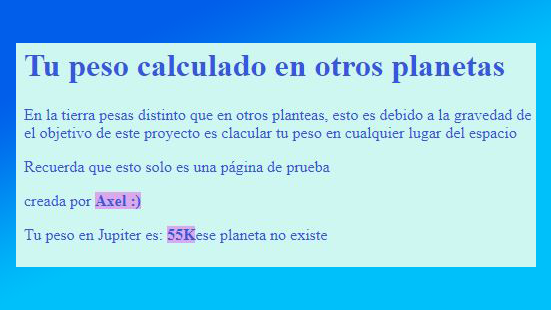
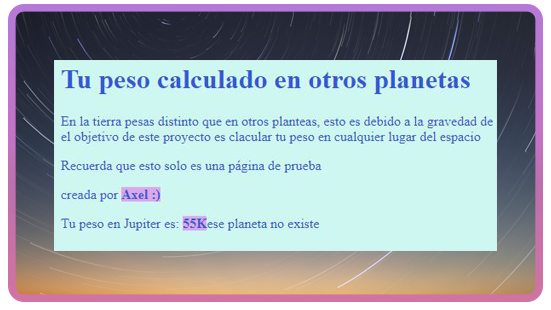
responsive terminado

diff --git a/Styles/inicio.css b/Styles/inicio.css
@@ -1,4 +1,3 @@
-
 * {
     margin: 0;
     padding: 0;
@@ -31,6 +30,7 @@ h1{
     justify-content: space-between;
     align-items: center;
     position: absolute;
+    top: 0;
     z-index: 1000;
     background-color: rgba(0, 0, 0, .1);
     border-bottom: 1px solid rgba(0, 0, 0, .1);
@@ -95,7 +95,7 @@ ul.show{
     .menu_items{
         position: fixed;
         width: 100%;
-        background-color: #414141;
+        background-color: #531a4a67;
         top: -1000vh;
         text-align: center;
         transition: all .4s;
@@ -114,7 +114,7 @@ ul.show{
         font-weight: bold;
     }
     .menu_items li a:hover{
-        color: #e9183b;
+        color: #e91899;
     }
     .logo{
         font-size: 25px;
@@ -153,7 +153,7 @@ ul.show{
     background-color: #d8d2d2;
     position: absolute;
     width: 100%;
-    bottom: -266px;
+    bottom: 0;
     justify-items: start;
     align-items: center;
 }
@@ -172,4 +172,43 @@ ul.show{
     height: 12px;
     justify-self: center;
     margin-left: 10px;
+}
+
+@media only screen and (max-width: 393px) {
+	h1.contact--general0__h1{
+		font-size: 18px;
+	}
+	label.logo{
+		padding: 0 70px 0 20px;
+	}
+    .container-fondo{
+        width: 100vw;
+        overflow: hidden;
+    }
+    .header-fondo{
+        width: 170%;
+    }
+    /* footer */
+    .footer-contenedor{
+        grid-template-rows: 50px 25px;
+        justify-items: start;
+        align-items: center;
+    }
+    .footer-contenedor>p{
+        font-size: 15px;
+    }
+    .img-footer{
+        grid-column: 1/2;
+        height: 30px;
+        justify-self: center;
+    }
+    .p-f{
+        height: 15px;
+        justify-self: center;
+        margin-left: 10px;
+        justify-items: center;
+    }
+    div.footer-contenedor{
+        text-align: center;
+    }
 }

diff --git a/index.html b/index.html
@@ -22,7 +22,7 @@
 
 <body>
 
-    <!-- <header>
+    <header>
         <div class="container-fondo">
             <img src="imagenes/header.png" alt="" class="header-fondo">
         </div>
@@ -38,7 +38,7 @@
         <span class="btn_menu">
             <i class="fa fa-bars"></i>
         </span>
-    </nav> -->
+    </nav>
 
 
     <div class="contenedor">
@@ -93,10 +93,10 @@
 		</div>
 	</div>
 
-    <!-- <div class="footer-contenedor">
+    <div class="footer-contenedor">
         <img src="imagenes/Logonuevo-Axel.png" alt="LogoAxel" class="img-footer">
-        <p>TODOS LOS DERECHOS RESERVADOS COPYRIGHT © - AXEL PINARGOTE <a href="https://www.facebook.com/axelpinargot" target="_blank"><img src="./imagenes/fb.png" class="logo-fb"></a> <a href="#" target="_blank"><img src="./imagenes/tw.png" class="logo-tw"></a></p>
-    </div>  -->
+        <p>TODOS LOS DERECHOS RESERVADOS COPYRIGHT © - AXEL PINARGOTE </p><p class="p-f"><a href="https://www.facebook.com/axelpinargot" target="_blank"><img src="./imagenes/fb.png" class="logo-fb"></a> <a href="#" target="_blank"><img src="./imagenes/tw.png" class="logo-tw"></a></p>
+    </div> 
 
 	<script src="https://cdn.jsdelivr.net/npm/glider-js@1.7.3/glider.min.js"></script>
 	<script src="https://kit.fontawesome.com/2c36e9b7b1.js" crossorigin="anonymous"></script>
